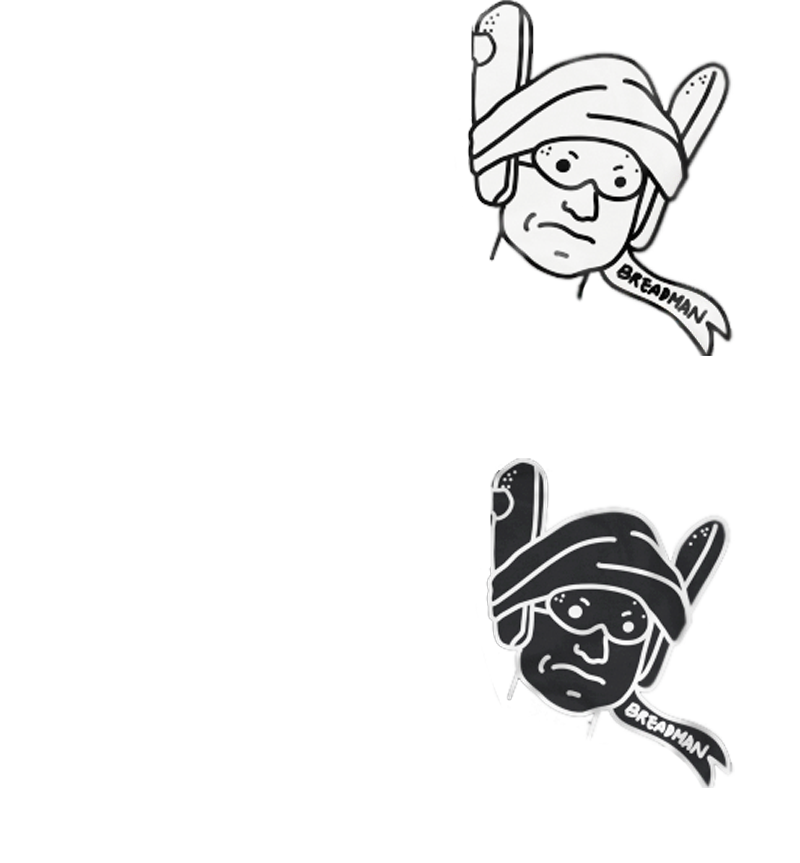
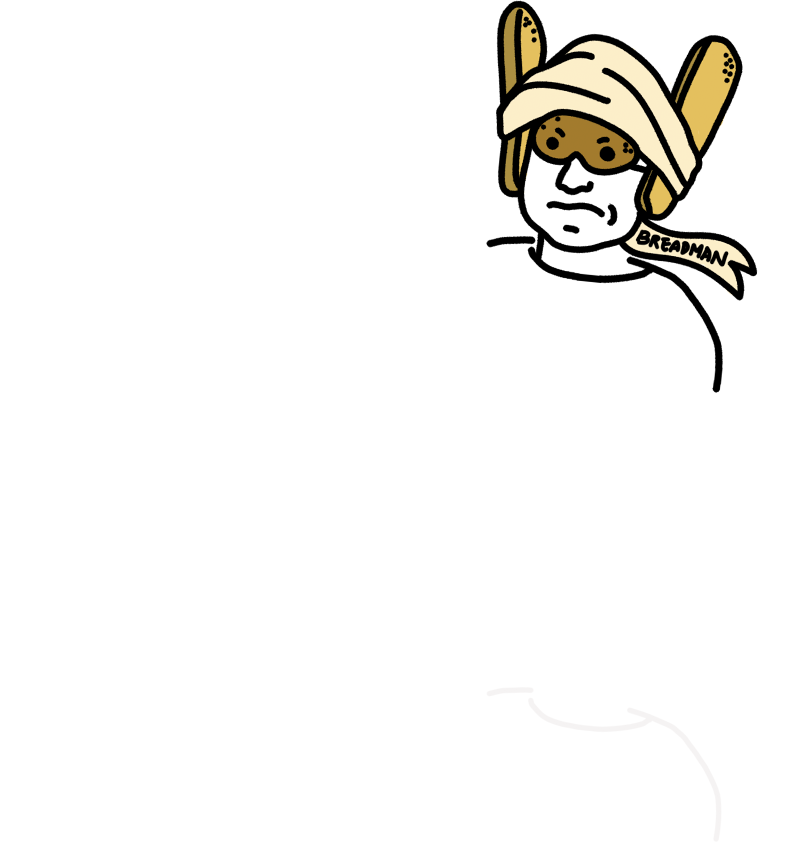
HI RES AND COLOR!

Changed region(s): [[0.5625, 0.0, 0.9688, 0.4519], [0.5938, 0.5122, 0.9375, 0.934]]

diff --git a/style/style.css b/style/style.css
@@ -237,8 +237,8 @@ select#select-instrument option {
 .cat>#head {
   background-image: url(../images/cat.png);
   z-index: 10;
-  top: -181px;
-  left: -32px;
+  top: -192px;
+  left: -49px;
 }
 
 .cat>#mouth {
